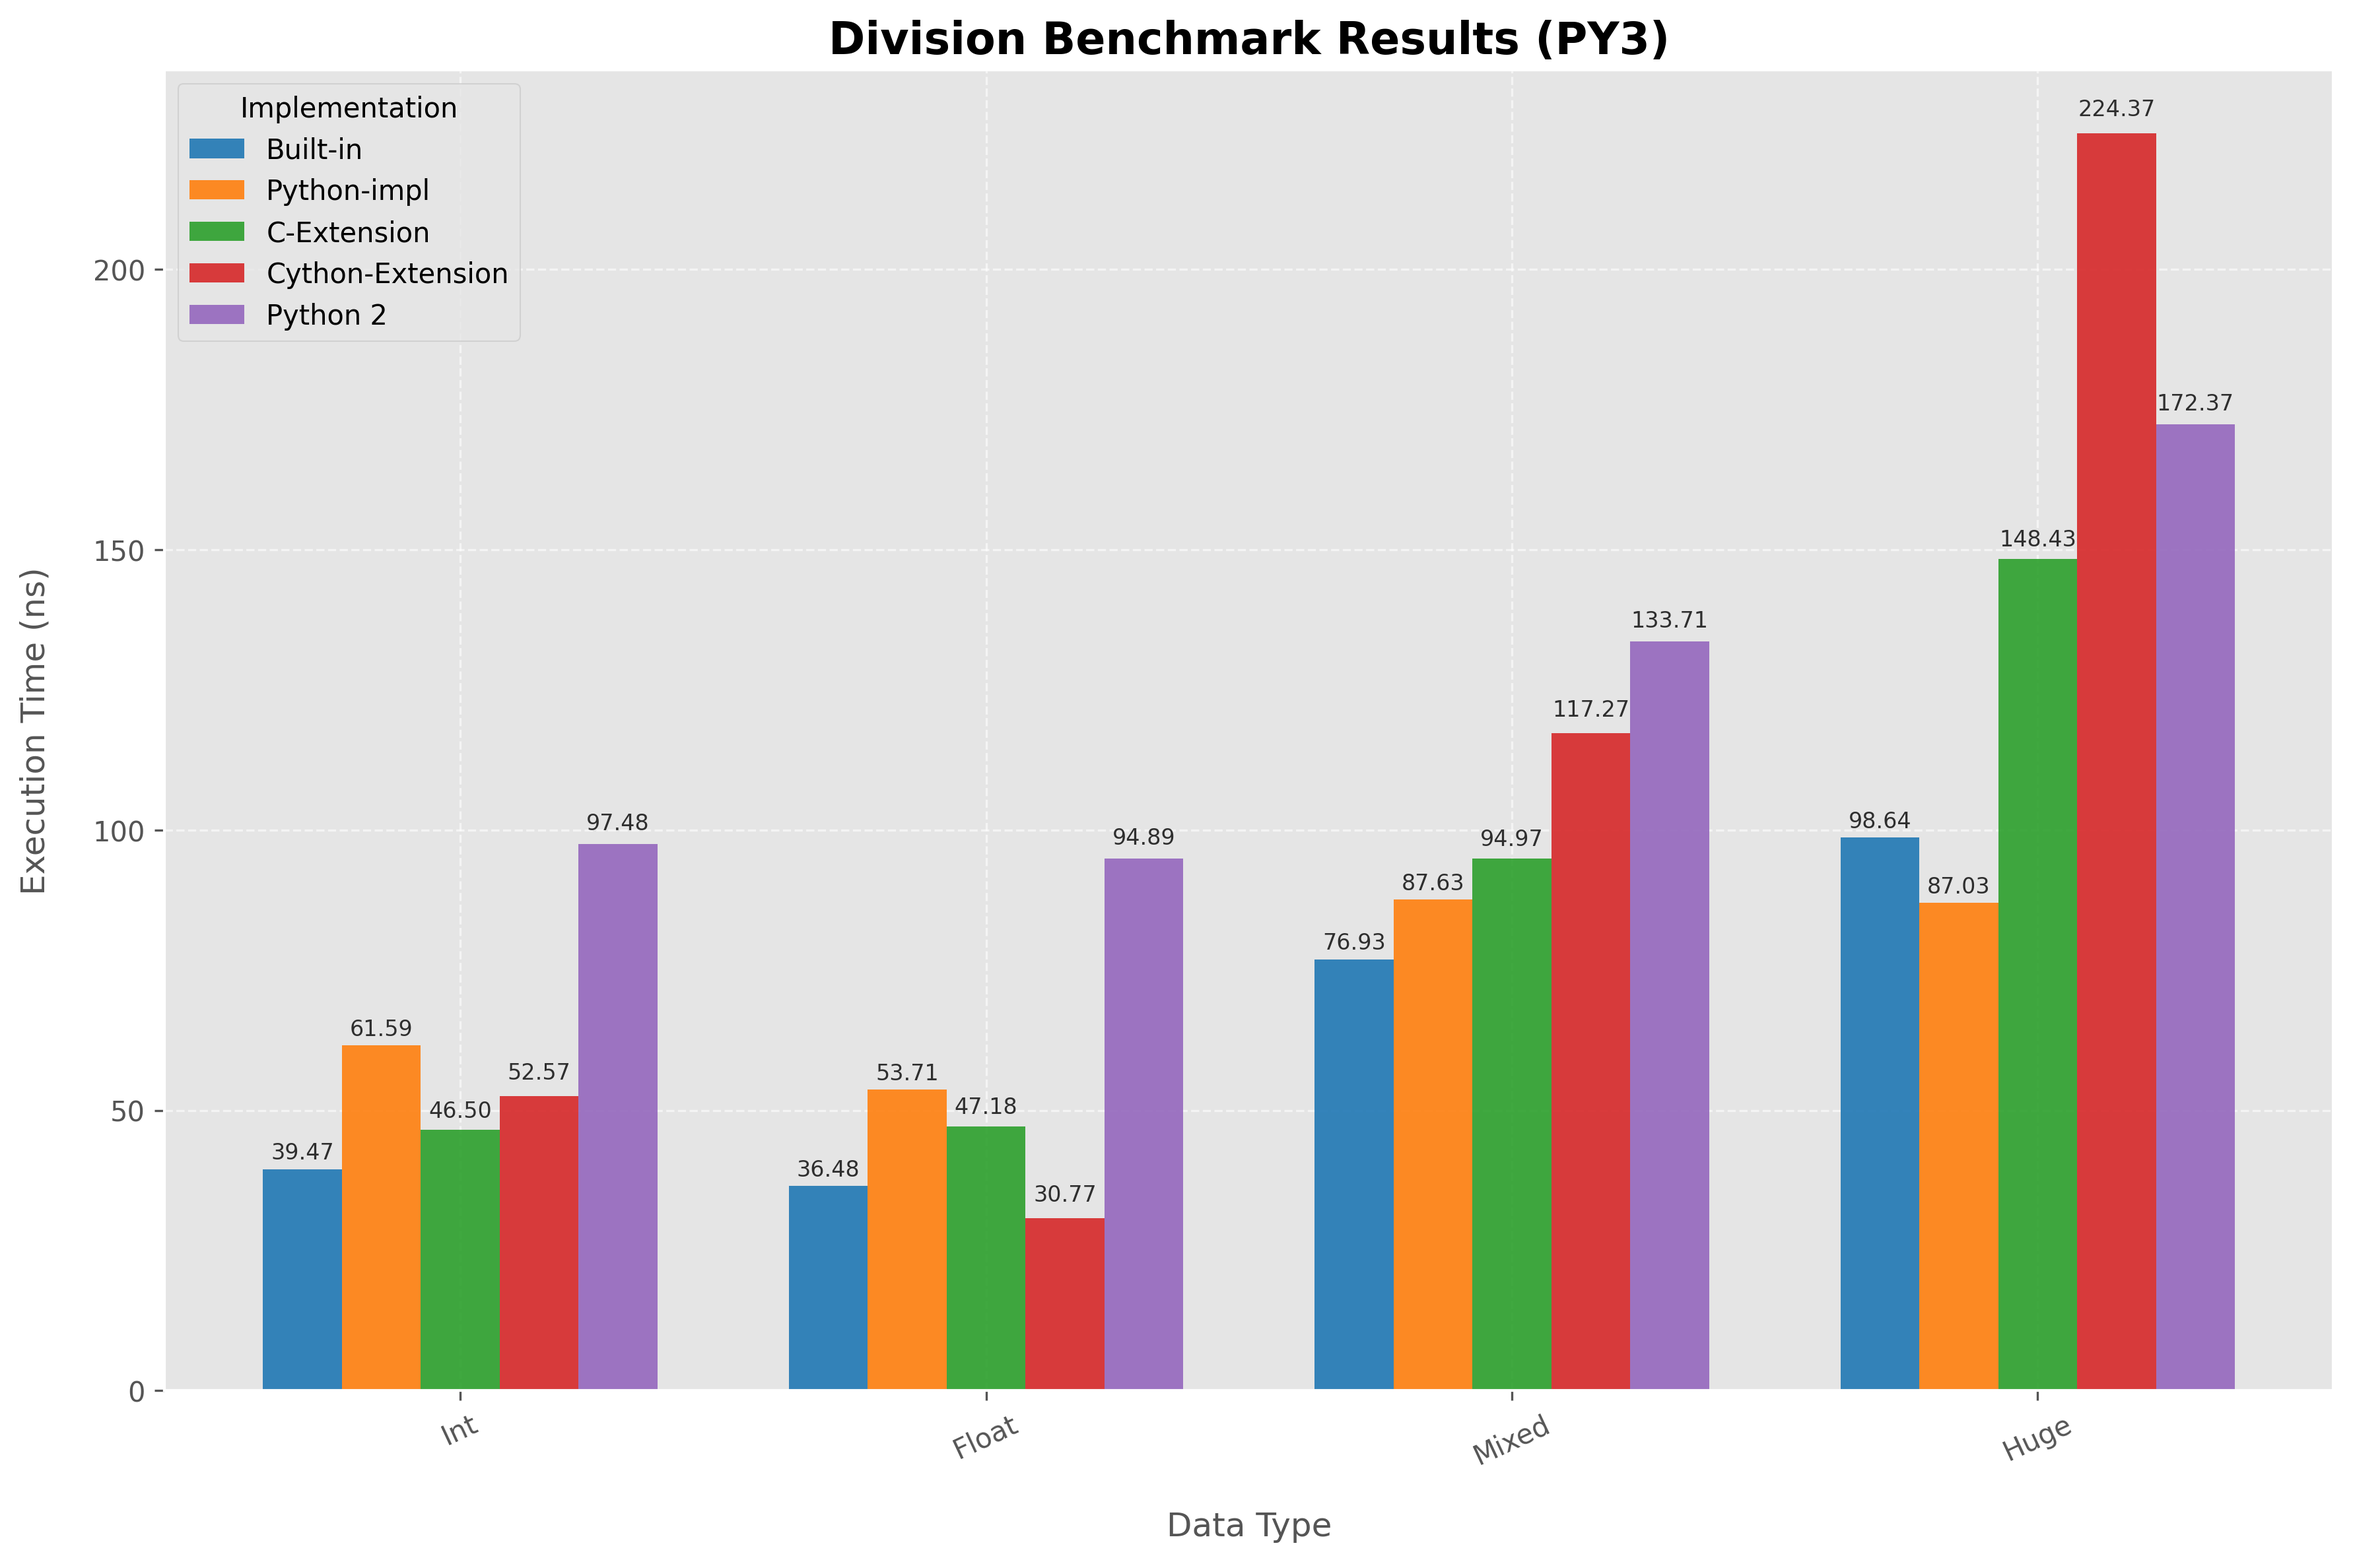
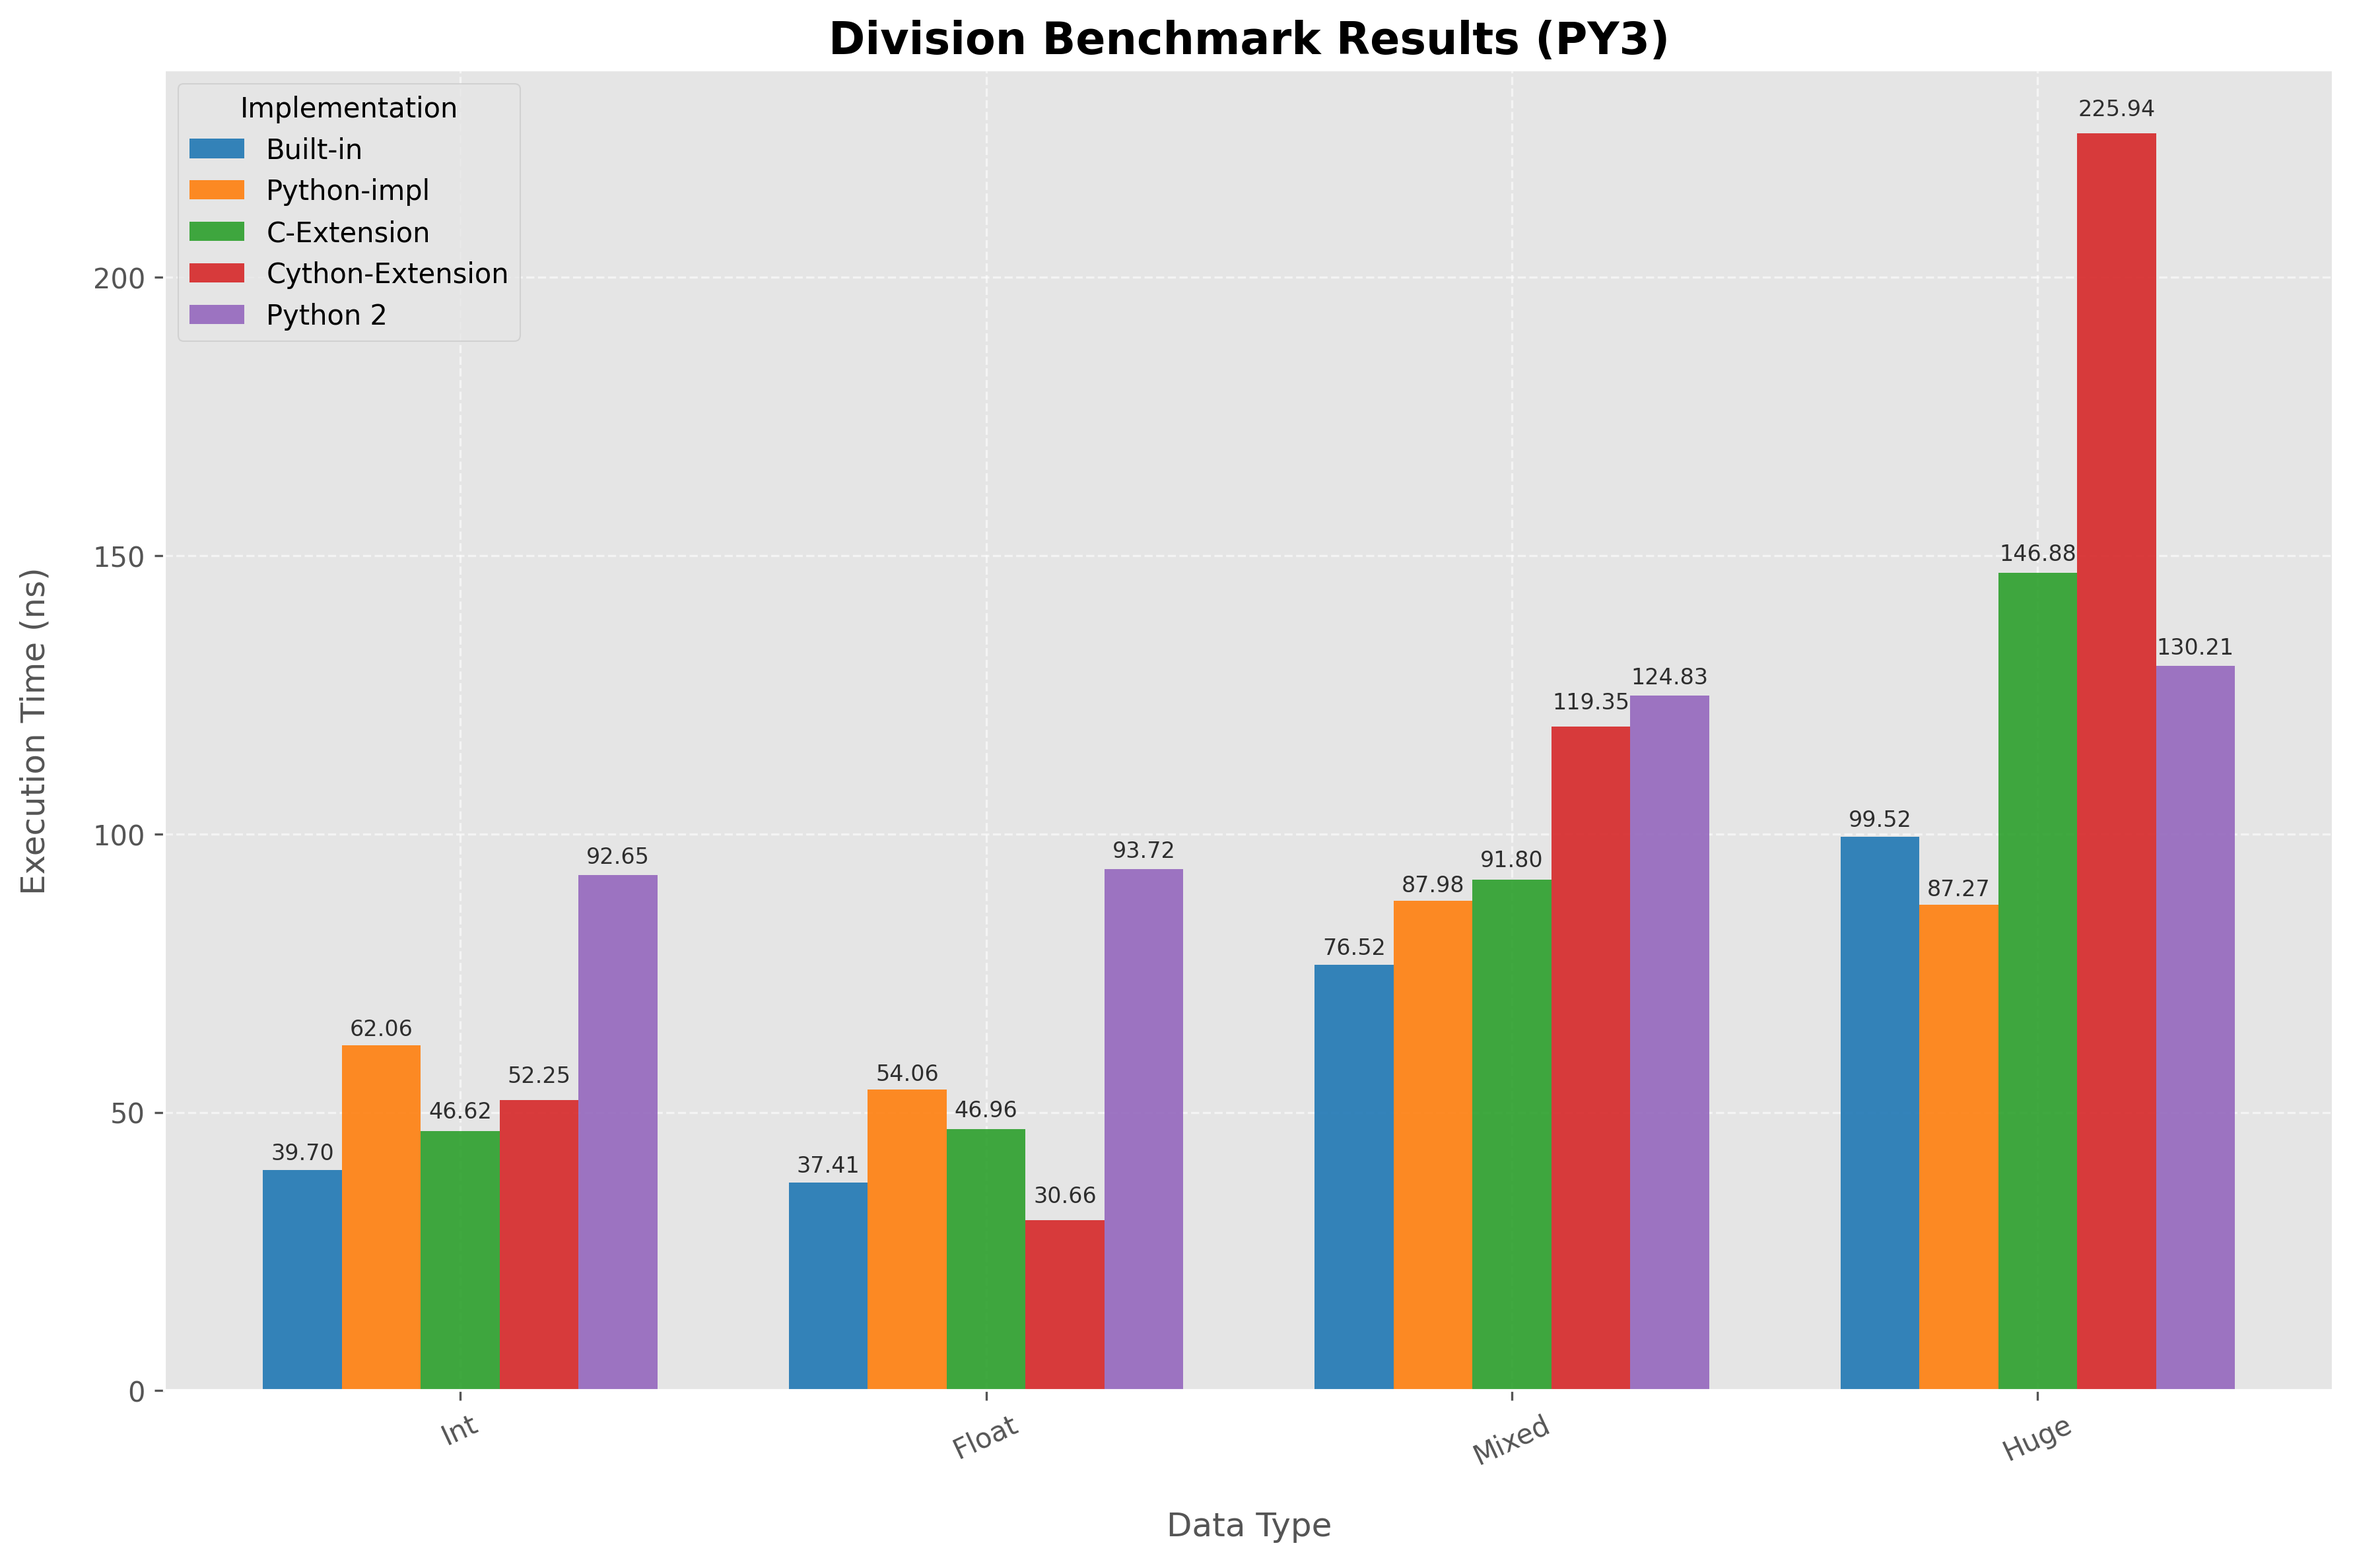
Refactor division benchmarks and add `builtin_division` method
Reorganized imports and added a new `builtin_division` function for clarity and consistency. Adjusted benchmark sizes and removed redundant code to improve maintainability. Updated plotting outputs to reflect the latest benchmark results.

diff --git a/division_crossbenchmark.py b/division_crossbenchmark.py
@@ -48,8 +48,8 @@ try:
 except ImportError:
 	has_cython_extension = False
 
-from py2py3div_python import div_wrapper as python_division
-#from py2py3div_python import div_wrapper as builtin_division
+from py2py3div_python import builtin_division, div_wrapper as python_division
+# from py2py3div_python import div_wrapper as builtin_division
 
 # Check Python version
 PY2 = sys.version_info[0] == 2
@@ -59,17 +59,11 @@ PY3 = sys.version_info[0] == 3
 PY2_DATA_FILE = "py2_division_benchmark.json"
 
 if PY2:
-	timer_impl = time.clock
 	# timer_impl = time.time
+	timer_impl = time.clock
 else:
 	# timer_impl = time.process_time
 	timer_impl = time.perf_counter
-
-def div_wrapper(a, b):
-	"""Pure Python implementation of division"""
-	return a / b
-
-builtin_division = div_wrapper
 
 
 def run_benchmark(func, size, data_type, num_runs=5):
@@ -133,7 +127,7 @@ def load_py2_data():
 		print("Failed to load benchmark data: {}".format(str(e)))
 		return None
 
-def print_results_table(size, results_by_type, data_types, py2_data=None):
+def print_results_table(results_by_type, data_types, py2_data=None):
 	"""Print benchmark results in a well-formatted table with color-coding and Python 2 data from JSON"""
 	try:
 		# For Python 2 and 3 compatibility with colorama
@@ -187,7 +181,6 @@ def print_results_table(size, results_by_type, data_types, py2_data=None):
 
 		# Check if built-in is available
 		if 'built_in' not in result:
-			print("No built-in results for size {}".format(size))
 			continue
 
 		built_in_mean = result['built_in']['mean']
@@ -602,7 +595,7 @@ def main():
 		functions['cython_extension'] = cy_division.div_wrapper
 
 	data_types = ['int', 'float', 'mixed', 'huge']
-	sizes = [100000, 100000, 3000, 1000]
+	sizes = [1000000, 1000000, 3000, 1000]
 	num_runs = 100
 
 	results_by_types = []
@@ -619,7 +612,7 @@ def main():
 	elif PY2:
 		dump_py2_data(results_by_types, data_types)
 
-	print_results_table(size, results_by_types, data_types, py2_data)
+	print_results_table(results_by_types, data_types, py2_data)
 	if not noPics:
 		plot_benchmark_results(results_by_types, data_types, py2_data)
 		plot_relative_performance(results_by_types, data_types, py2_data)

diff --git a/py2py3div_python/__init__.py b/py2py3div_python/__init__.py
@@ -23,6 +23,9 @@ else:
     def div_wrapper(*_):
         raise ImportError("Could not load Pure Python implementation")
 
+def builtin_division(a, b):
+    return a / b
+
 
 # Make sure to explicitly export the function
-__all__ = ['div_wrapper']
+__all__ = ['div_wrapper', 'builtin_division']
